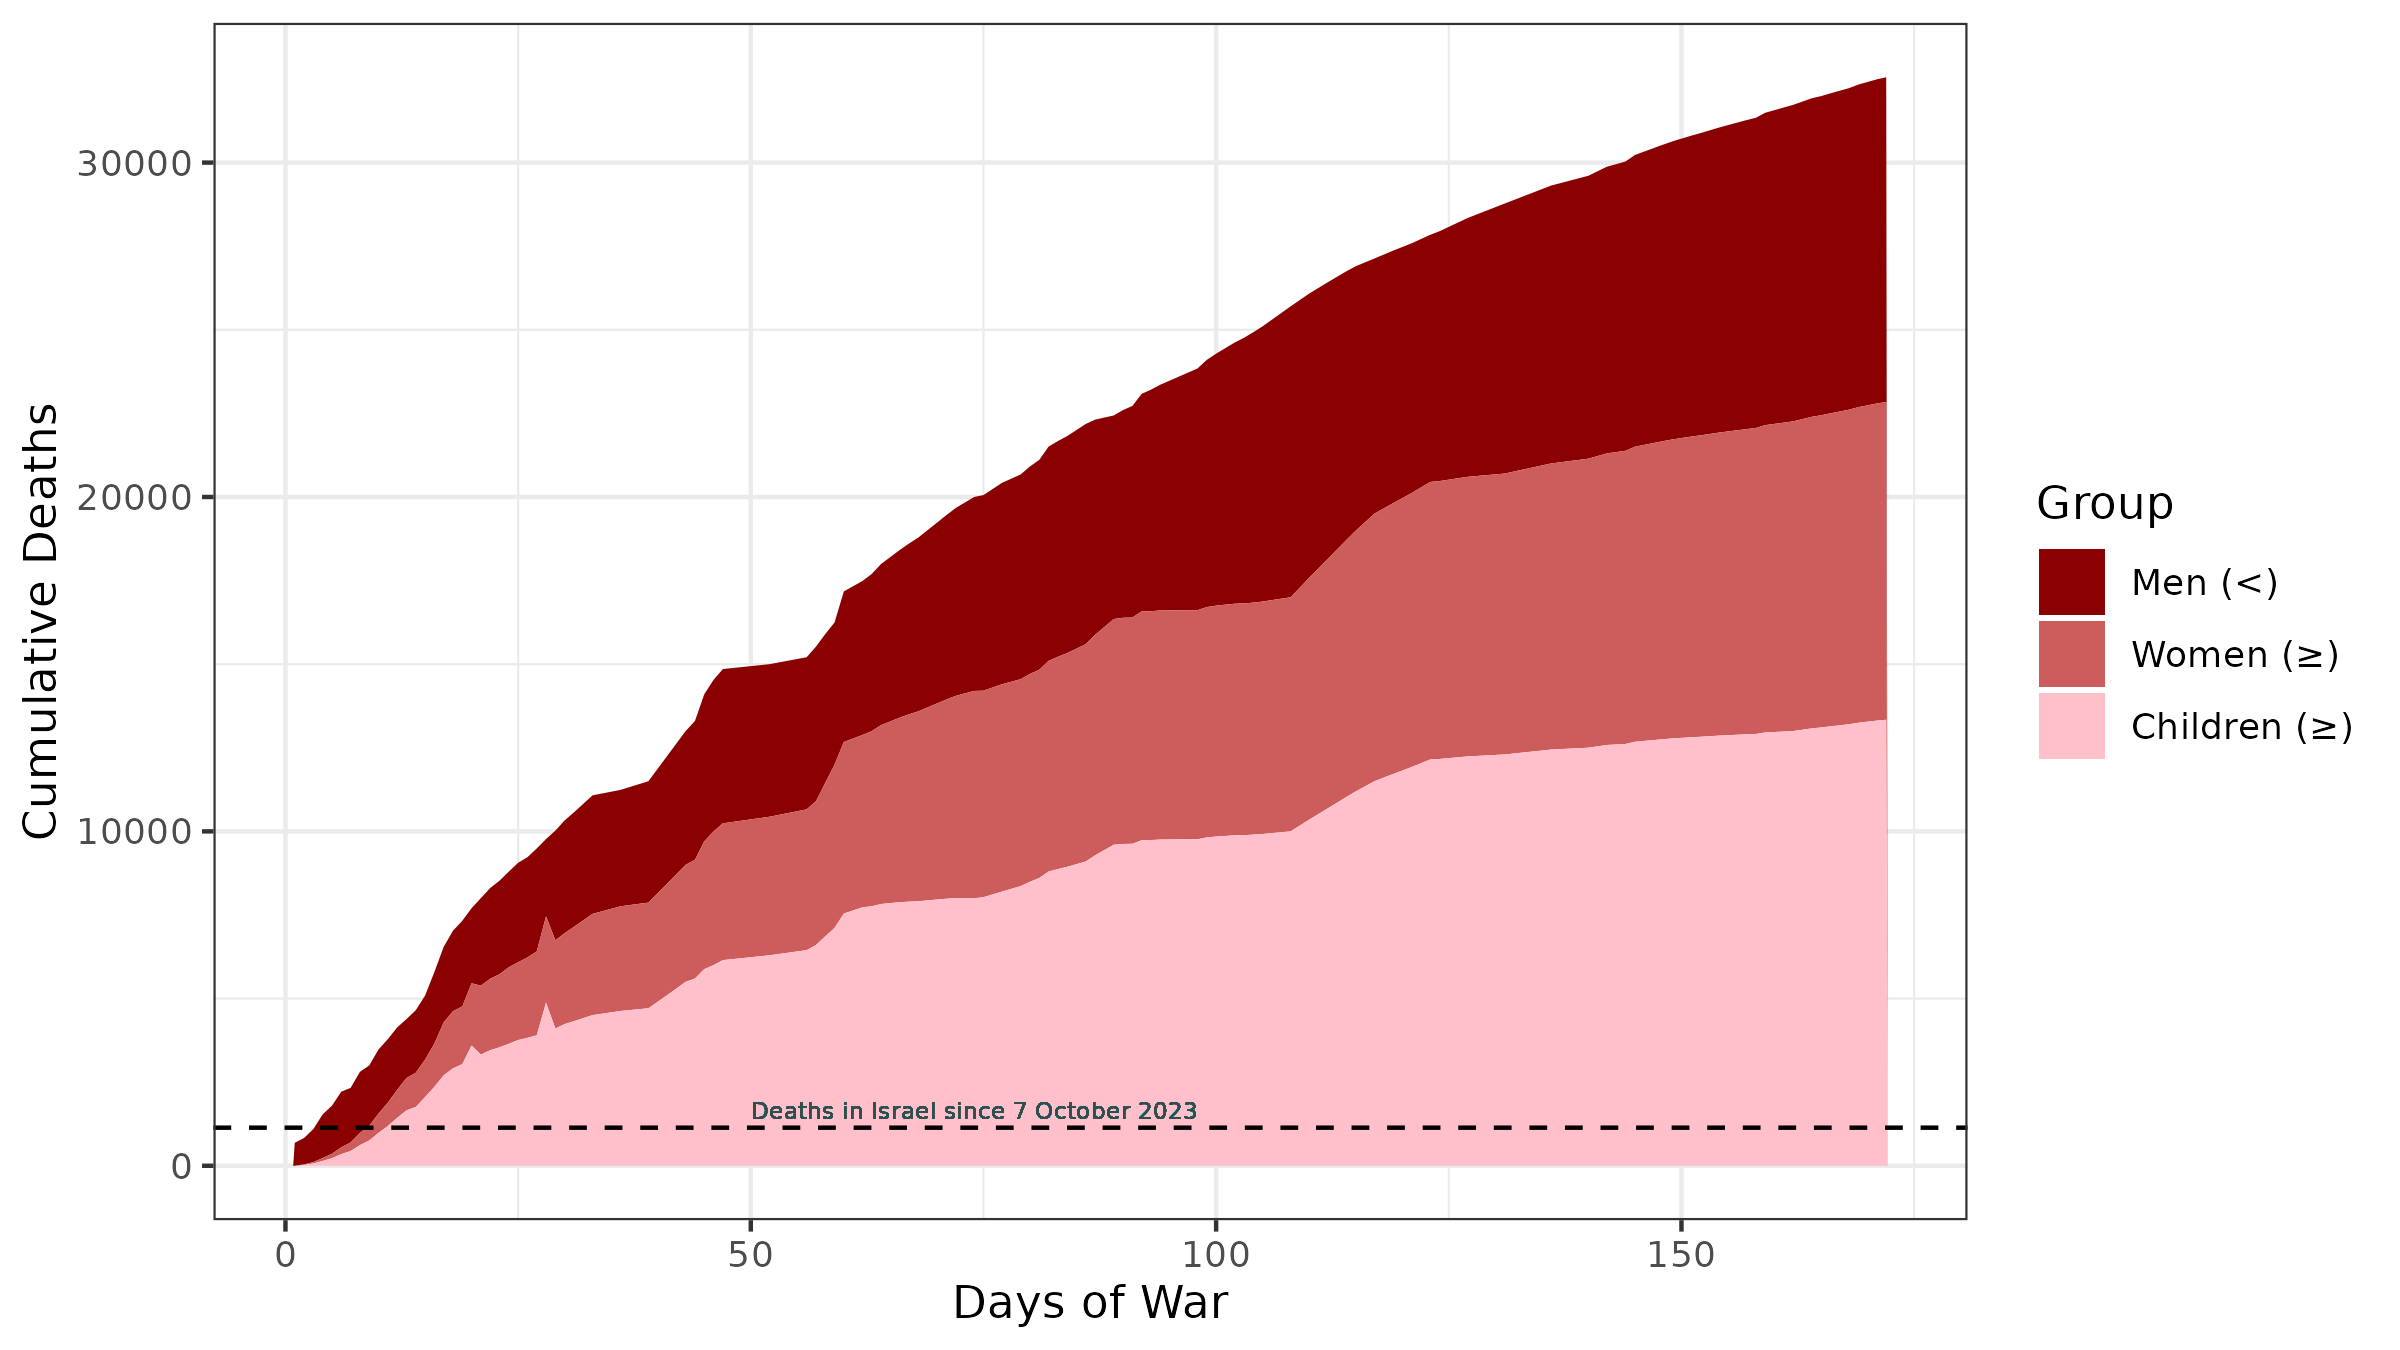
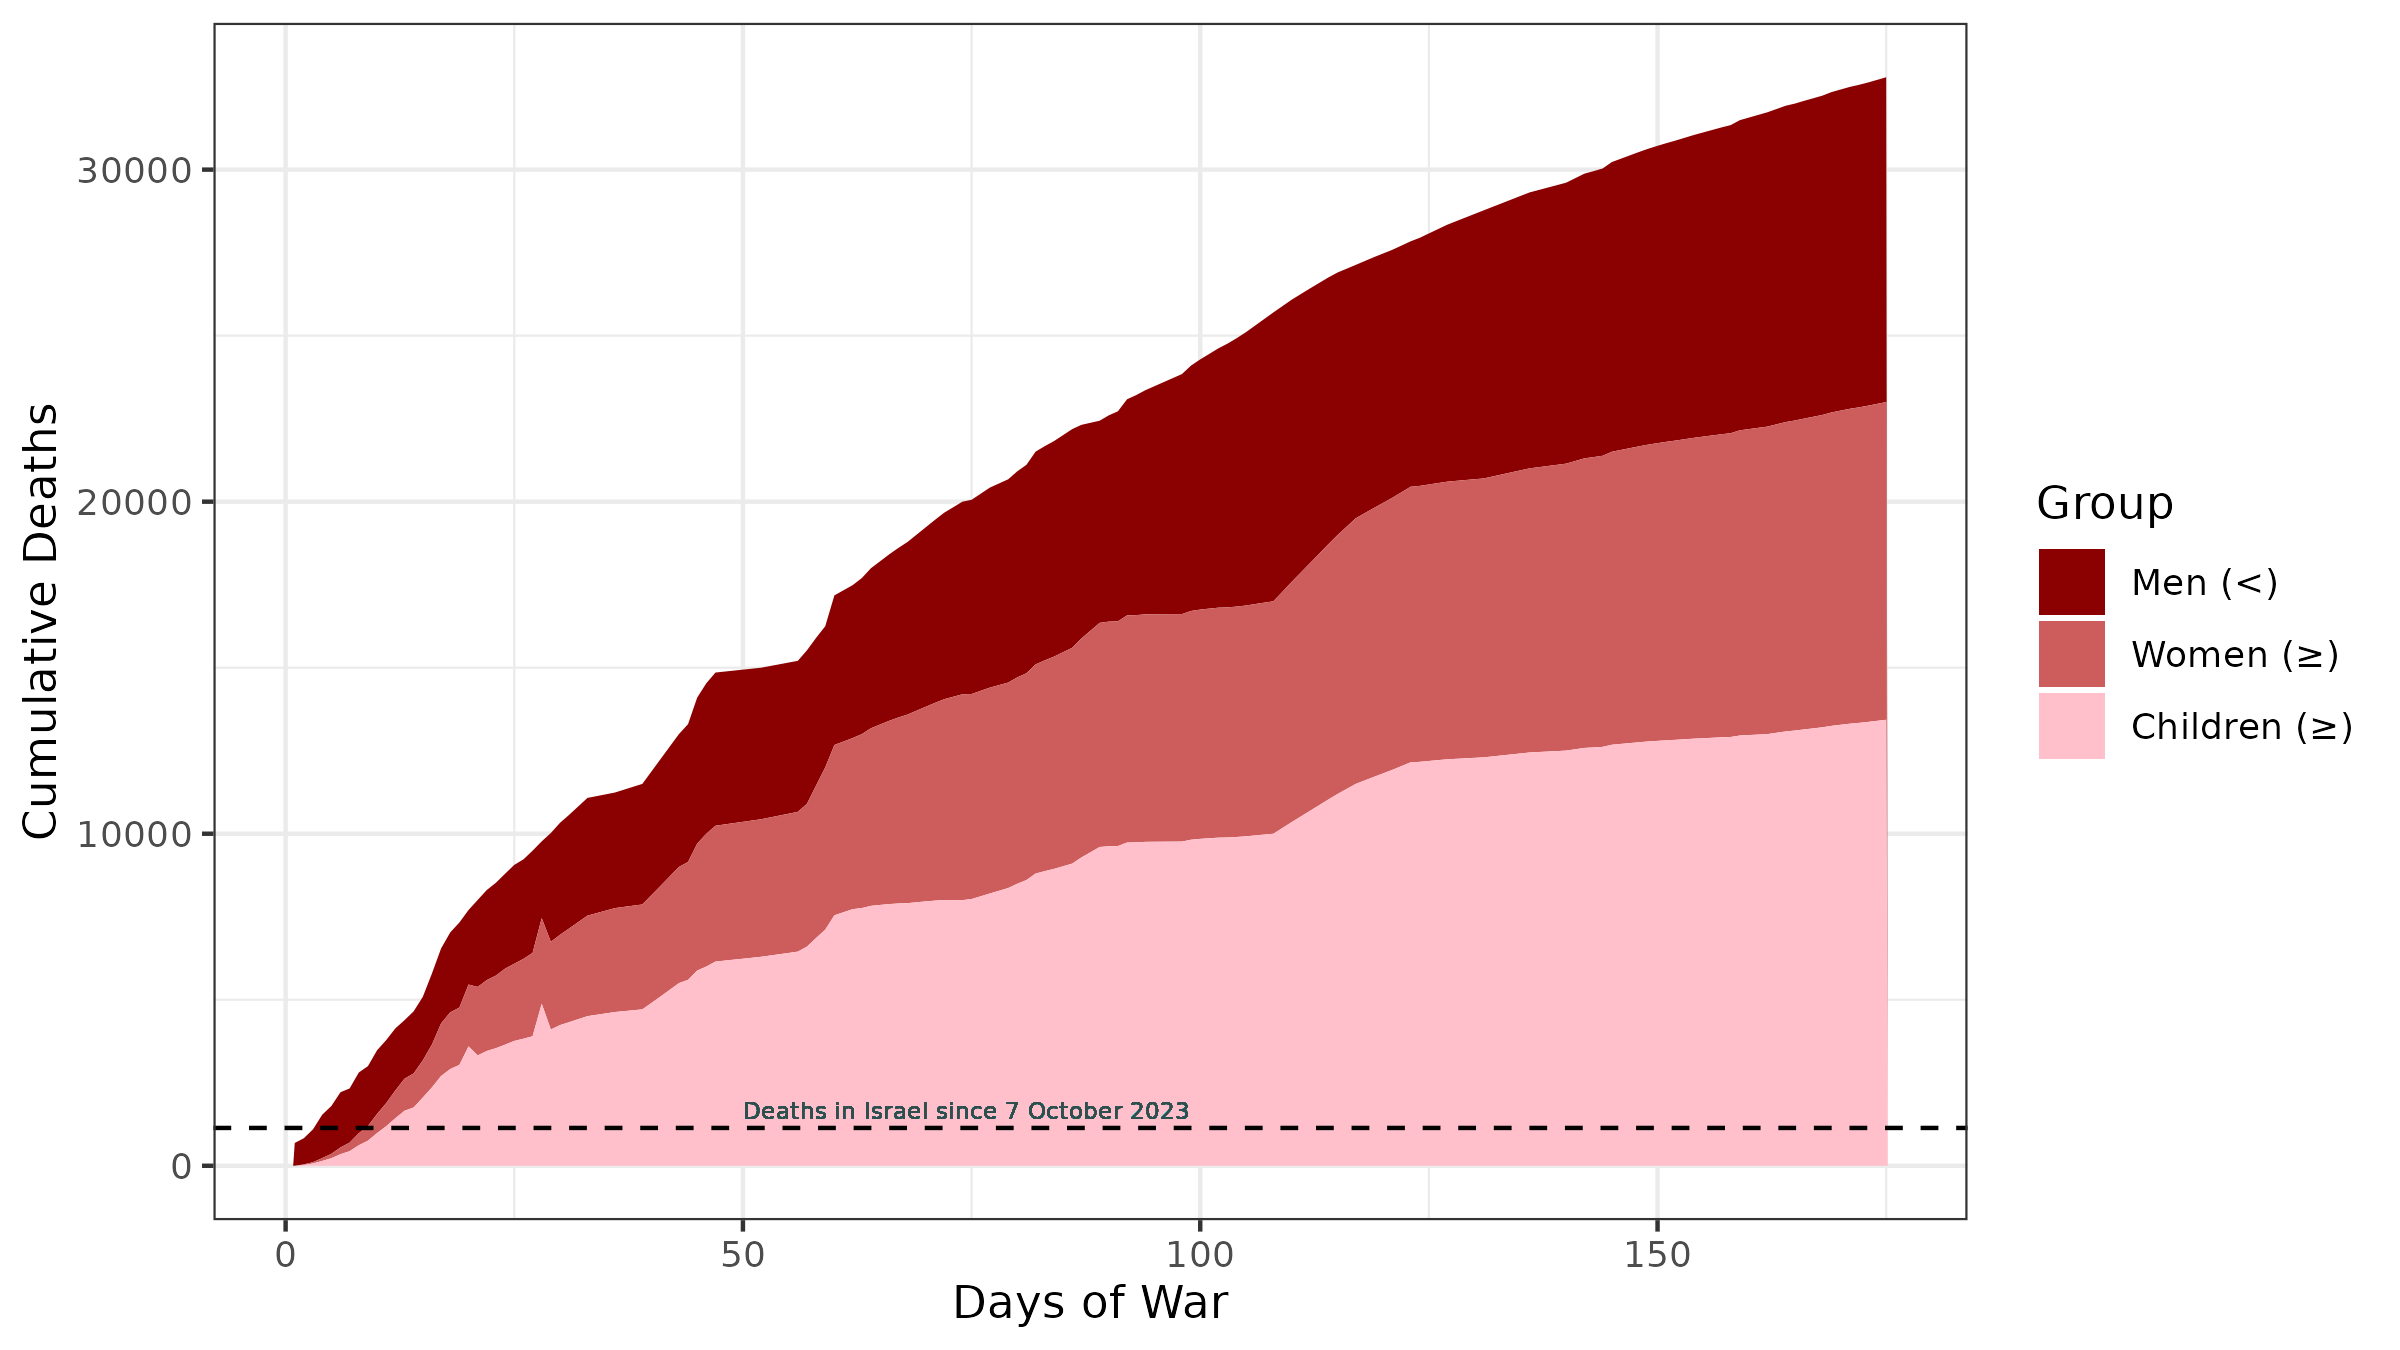
Updated to 31 March 2024

diff --git a/README.md b/README.md
@@ -1,5 +1,5 @@
 Tracking mortality in Palestine following Israel's assault against Gaza (2023-2024). 
-*Last updated 28 March 2024*
+*Last updated 31 March 2024*
 
 # Gaza Conflict Tracker
 
